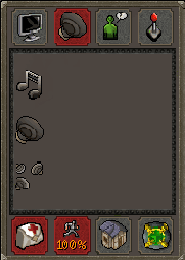
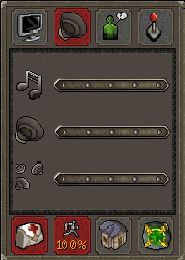
Put slider backgrounds back into panel picture

Changed region(s): [[0.2703, 0.6462, 0.9189, 0.7385], [0.2703, 0.2769, 0.9189, 0.3692], [0.2973, 0.4615, 0.9189, 0.5538]]

diff --git a/src/ui/panels/settings.js b/src/ui/panels/settings.js
@@ -30,32 +30,12 @@ export class Settings {
                 this.show();
             });
 
-        // Place sliders (TODO: Remove these and have them part of the image)
-        let barXOffset = 53;
-        this.sliders.push(
-            dashboard.add
-                .image(audioWindowX + barXOffset, audioWindowY + 80, "audio-slider")
-                .setOrigin(0, 0)
-                .setDepth(2)
-        );
-        this.sliders.push(
-            dashboard.add
-                .image(audioWindowX + barXOffset, audioWindowY + 125, "audio-slider")
-                .setOrigin(0, 0)
-                .setDepth(2)
-        );
-        this.sliders.push(
-            dashboard.add
-                .image(audioWindowX + barXOffset, audioWindowY + 170, "audio-slider")
-                .setOrigin(0, 0)
-                .setDepth(2)
-        );
-
-        // Volume / SFX / Environment
+        // Place sliders, Volume / SFX / Environment
+        let barXOffset = 50;
         this.sliderMin = audioWindowX + barXOffset + 11;
         this.sliderMax = audioWindowX + barXOffset + 98;
         this.volumeButton = dashboard.add
-            .image(this.sliderMin + 1, audioWindowY + 80, "audio-button")
+            .image(this.sliderMin, audioWindowY + 77, "audio-button")
             .setDepth(3)
             .setOrigin(0, 0)
             .setInteractive();
@@ -65,7 +45,7 @@ export class Settings {
             .setOrigin(0, 0)
             .setInteractive();
         this.envButton = dashboard.add
-            .image(this.sliderMin + 1, audioWindowY + 170, "audio-button")
+            .image(this.sliderMin, audioWindowY + 171, "audio-button")
             .setDepth(3)
             .setOrigin(0, 0)
             .setInteractive();

diff --git a/src/scenes/load.js b/src/scenes/load.js
@@ -115,7 +115,6 @@ export class LoadScene extends Phaser.Scene {
             "audio-settings-button",
             "src/assets/ui/buttons/AudioSettingsButton.png"
         );
-        this.load.image("audio-slider", "src/assets/ui/buttons/AudioSlider.png");
         this.load.image("audio-button", "src/assets/ui/buttons/AudioButton.png");
         this.load.image("quests-panel", "src/assets/ui/QuestsPanel.png");
         this.load.image("quests-button", "src/assets/ui/buttons/QuestsButton.png");
